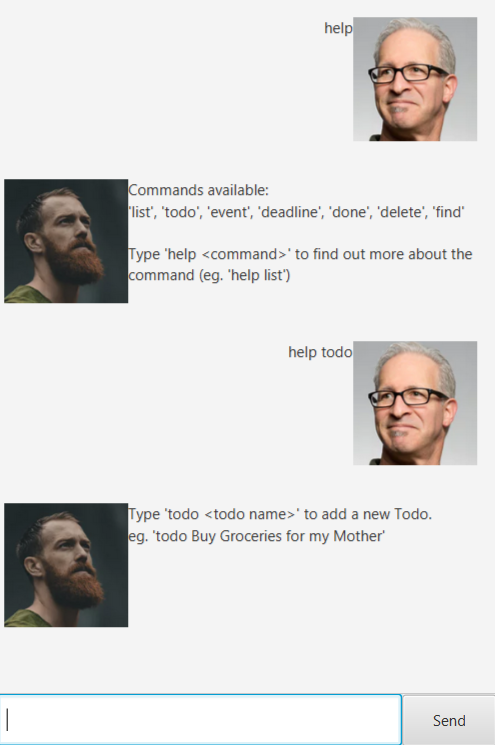
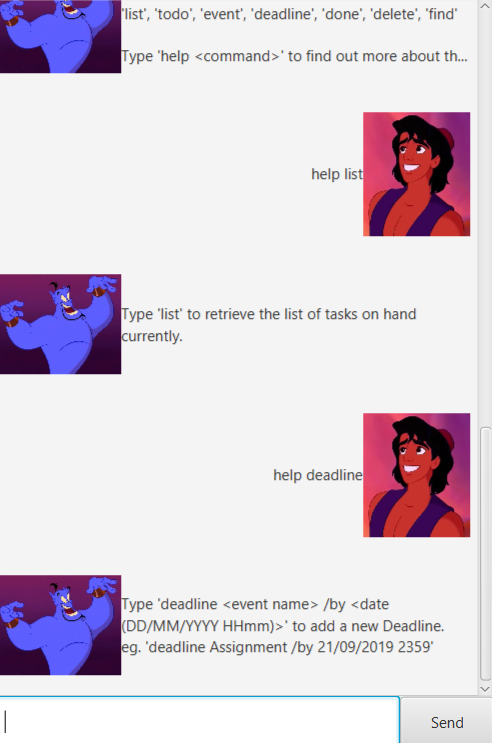
GUI improvements.

diff --git a/src/main/java/duke/Duke.java b/src/main/java/duke/Duke.java
@@ -27,7 +27,7 @@ import java.io.IOException;
  */
 public class Duke extends Application {
 
-    static final String TEXT_DOCUMENT = "./src/main/java/data/data.txt";
+    static final String TEXT_DOCUMENT = "./data.txt";
 
     /** Storage to read and write files. */
     private Storage storage;
@@ -92,55 +92,6 @@ public class Duke extends Application {
 
         primaryStage.setScene(scene);
         primaryStage.show();
-
-        primaryStage.setTitle("Duke");
-        primaryStage.setResizable(false);
-        primaryStage.setMinHeight(600.0);
-        primaryStage.setMinWidth(400.0);
-
-        mainLayout.setPrefSize(400.0, 600.0);
-
-        scrollPane.setPrefSize(385, 535);
-        scrollPane.setHbarPolicy(ScrollPane.ScrollBarPolicy.NEVER);
-        scrollPane.setVbarPolicy(ScrollPane.ScrollBarPolicy.ALWAYS);
-
-        scrollPane.setVvalue(1.0);
-        scrollPane.setFitToWidth(true);
-
-        // You will need to import `javafx.scene.layout.Region` for this.
-        dialogContainer.setPrefHeight(Region.USE_COMPUTED_SIZE);
-
-        userInput.setPrefWidth(325.0);
-
-        sendButton.setPrefWidth(55.0);
-
-        AnchorPane.setTopAnchor(scrollPane, 1.0);
-
-        AnchorPane.setBottomAnchor(sendButton, 1.0);
-        AnchorPane.setRightAnchor(sendButton, 1.0);
-
-        AnchorPane.setLeftAnchor(userInput , 1.0);
-        AnchorPane.setBottomAnchor(userInput, 1.0);
-
-        sendButton.setOnMouseClicked((event) -> {
-            dialogContainer.getChildren().add(getDialogLabel(userInput.getText()));
-            userInput.clear();
-        });
-
-        userInput.setOnAction((event) -> {
-            dialogContainer.getChildren().add(getDialogLabel(userInput.getText()));
-            userInput.clear();
-        });
-
-        dialogContainer.heightProperty().addListener((observable) -> scrollPane.setVvalue(1.0));
-
-        sendButton.setOnMouseClicked((event) -> {
-            handleUserInput();
-        });
-
-        userInput.setOnAction((event) -> {
-            handleUserInput();
-        });
     }
 
     private Label getDialogLabel(String text) {

diff --git a/src/main/java/duke/MainWindow.java b/src/main/java/duke/MainWindow.java
@@ -22,8 +22,8 @@ public class MainWindow extends AnchorPane {
 
     private Duke duke;
 
-    private Image userImage = new Image(this.getClass().getResourceAsStream("/images/DaUser.png"));
-    private Image dukeImage = new Image(this.getClass().getResourceAsStream("/images/DaDuke.png"));
+    private Image userImage = new Image(this.getClass().getResourceAsStream("/images/Aladdin.png"));
+    private Image dukeImage = new Image(this.getClass().getResourceAsStream("/images/Genie.jpg"));
 
     public MainWindow() {
     }
